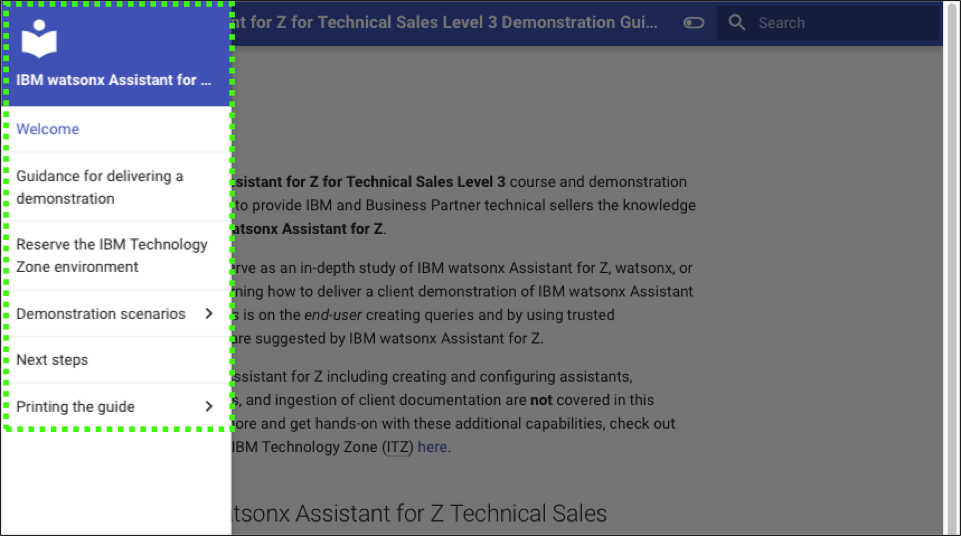
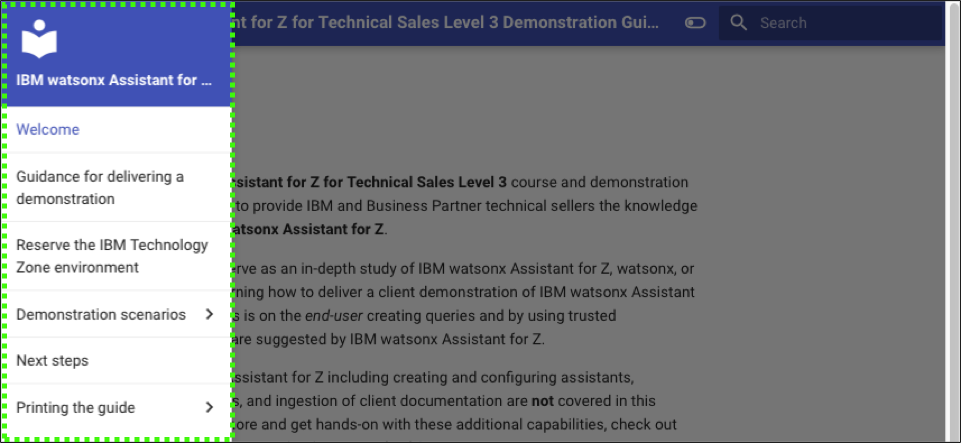
Deployed cb9b6f3 with MkDocs version: 1.6.1

Changed region(s): [[0.0, 0.0, 0.999, 1.0]]

diff --git a/print_page/index.html b/print_page/index.html
@@ -861,8 +861,7 @@
 <p>However, if the browser window is sized smaller, the table of contents is accessible by clicking the main menu icon (<img alt="" src="../_attachments/MainMenuIcon.png">) (highlighted by solid green box):</p>
 <p><img alt="" src="../_attachments/demoGuide2b.png"></p>
 <p>Click the main menu icon (<img alt="" src="../_attachments/MainMenuIcon.png">) to expand the table of contents.</p>
-<p><img alt="" src="../_attachments/demoGuide3.png"></p>
-<p>The <strong>Print Demonstration Guide</strong> link in the table of contents opens a new page with the entire IBM watsonx Assistant for Z for Technical Sales Level 3 Demonstration Guide seen as a single page. This page can be used to print the demonstration guide or save it as a PDF using the browser's print capability.</p>
+<!-- <img alt="" src="../_attachments/demoGuide3.png" /> -->
 </details>
 <details class="tip">
 <summary>Image highlighting</summary>

diff --git a/index.html b/index.html
@@ -695,8 +695,7 @@
 <p>However, if the browser window is sized smaller, the table of contents is accessible by clicking the main menu icon (<img alt="" src="_attachments/MainMenuIcon.png">) (highlighted by solid green box):</p>
 <p><img alt="" src="_attachments/demoGuide2b.png"></p>
 <p>Click the main menu icon (<img alt="" src="_attachments/MainMenuIcon.png">) to expand the table of contents.</p>
-<p><img alt="" src="_attachments/demoGuide3.png"></p>
-<p>The <strong>Print Demonstration Guide</strong> link in the table of contents opens a new page with the entire IBM watsonx Assistant for Z for Technical Sales Level 3 Demonstration Guide seen as a single page. This page can be used to print the demonstration guide or save it as a PDF using the browser's print capability.</p>
+<!-- <img alt="" src="_attachments/demoGuide3.png" /> -->
 </details>
 <details class="tip">
 <summary>Image highlighting</summary>
